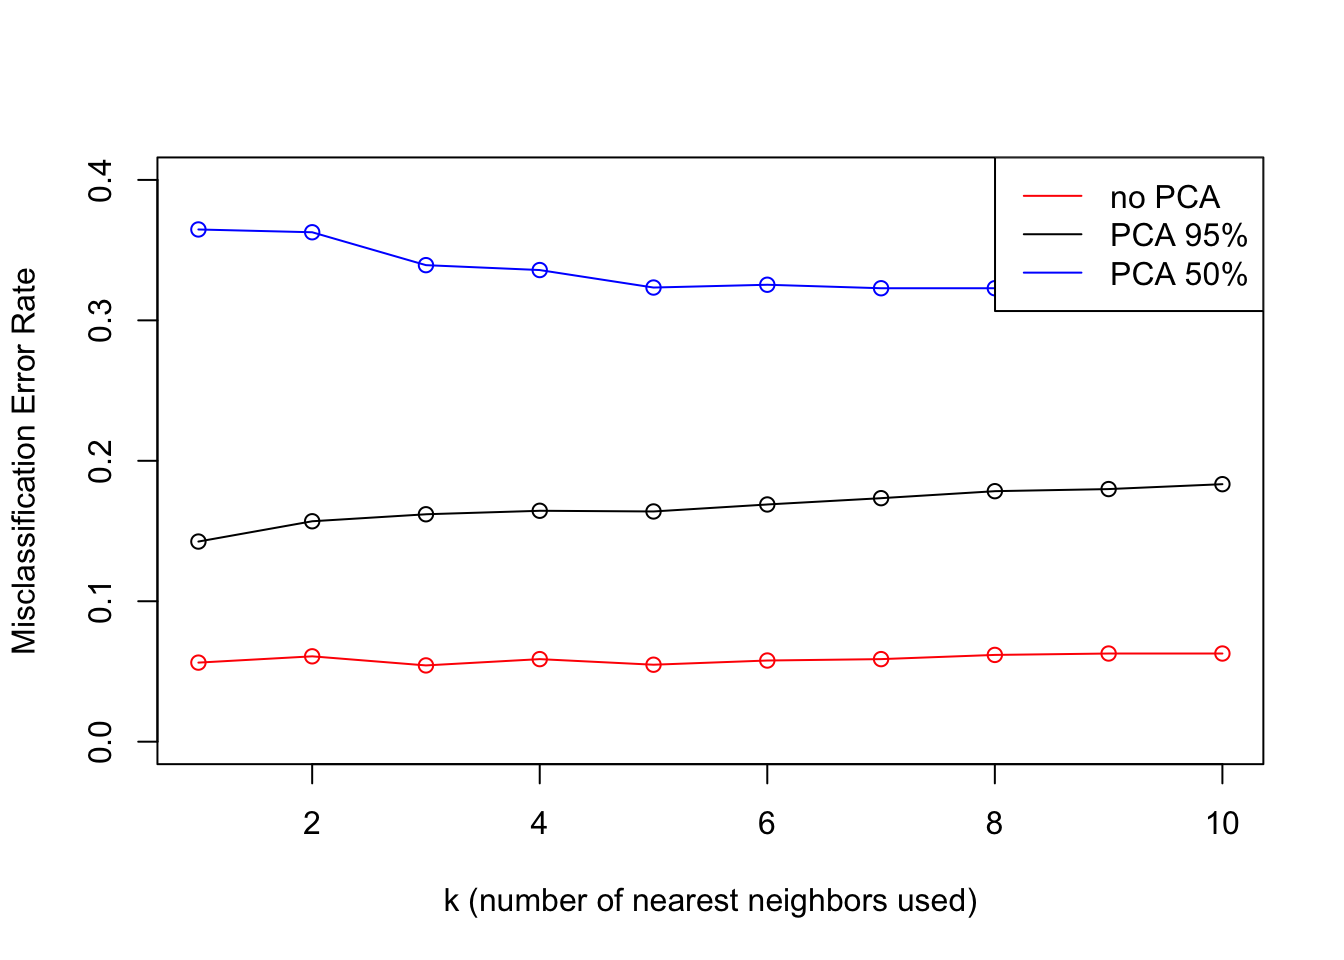
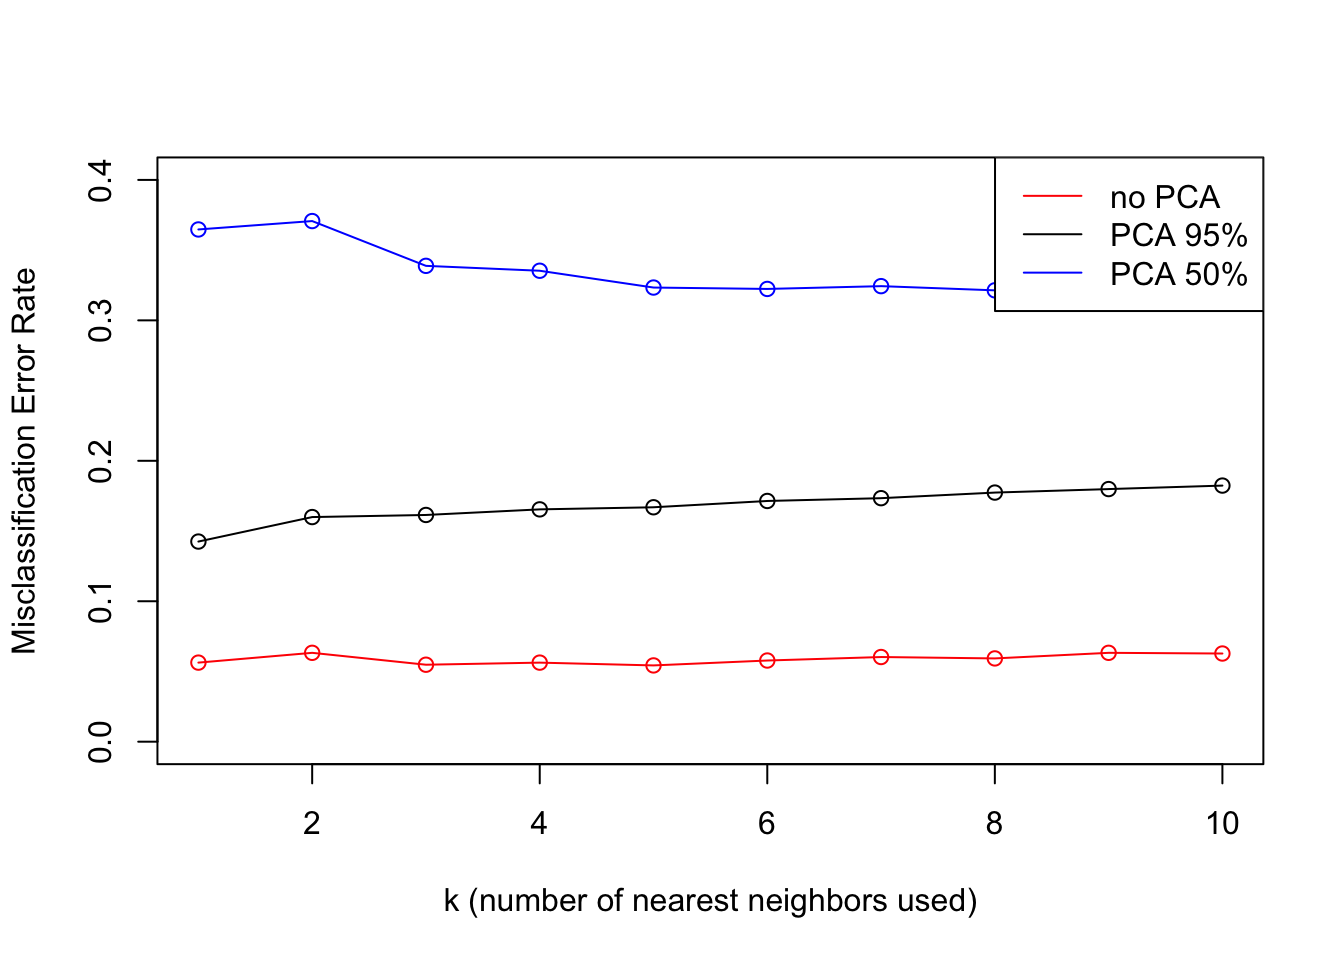
update

diff --git a/stat-learning-machine-learning-R/02-Dimension-Reduction-PCA.md b/stat-learning-machine-learning-R/02-Dimension-Reduction-PCA.md
@@ -406,15 +406,15 @@ cbind(errorRate_nopca, errorRate_pca95, errorRate_pca50)
 
     ##       errorRate_nopca errorRate_pca95 errorRate_pca50
     ##  [1,]      0.05630294       0.1425012       0.3647235
-    ##  [2,]      0.06078724       0.1569507       0.3627304
-    ##  [3,]      0.05430992       0.1619332       0.3393124
-    ##  [4,]      0.05879422       0.1644245       0.3358246
-    ##  [5,]      0.05480817       0.1639263       0.3233682
-    ##  [6,]      0.05779771       0.1689088       0.3253612
-    ##  [7,]      0.05879422       0.1733931       0.3228700
-    ##  [8,]      0.06178376       0.1783757       0.3228700
-    ##  [9,]      0.06278027       0.1798705       0.3228700
-    ## [10,]      0.06278027       0.1833582       0.3203787
+    ##  [2,]      0.06327853       0.1599402       0.3707025
+    ##  [3,]      0.05480817       0.1614350       0.3388142
+    ##  [4,]      0.05630294       0.1654210       0.3353264
+    ##  [5,]      0.05430992       0.1669158       0.3233682
+    ##  [6,]      0.05779771       0.1714001       0.3223717
+    ##  [7,]      0.06028899       0.1733931       0.3243647
+    ##  [8,]      0.05929248       0.1773792       0.3213752
+    ##  [9,]      0.06327853       0.1798705       0.3238665
+    ## [10,]      0.06278027       0.1823617       0.3193822
 
 ``` r
 # plot error rates vs k
@@ -449,10 +449,10 @@ microbenchmark(knn(usps_train, usps_test, usps_train_labels, 10),
     ##                            knn(usps_train, usps_test, usps_train_labels, 10)
     ##  knn(usps_train_pca$x[, 1:107], usps_test_pca95, usps_train_labels,      10)
     ##    knn(usps_train_pca$x[, 1:9], usps_test_pca50, usps_train_labels,      10)
-    ##        min        lq      mean    median        uq       max neval cld
-    ##  5150.0244 5305.1943 6219.7525 6114.7393 6747.2504 13276.030   100   c
-    ##  1318.2608 1356.5634 1518.4287 1431.6080 1521.1242  5827.228   100  b 
-    ##   103.3932  110.2016  114.8994  113.2257  118.0443   135.182   100 a
+    ##       min        lq      mean    median        uq       max neval cld
+    ##  6144.172 7466.5125 7882.0598 7863.2219 8301.5084 9242.8213   100   c
+    ##  1458.156 1643.0997 1848.7398 1738.0517 1896.6294 4613.3688   100  b 
+    ##   107.694  119.3231  126.6915  125.4803  132.9462  163.4824   100 a
 
 # PCA as Pre-Processing for Nearest-Local-Centroid Machine Learning: USPS digits
 
@@ -468,8 +468,8 @@ gc()
 ```
 
     ##           used  (Mb) gc trigger  (Mb)  max used   (Mb)
-    ## Ncells 2678454 143.1    5039558 269.2   3528812  188.5
-    ## Vcells 4529479  34.6  116728904 890.6 145851218 1112.8
+    ## Ncells 2678365 143.1    5039330 269.2   3528772  188.5
+    ## Vcells 4529261  34.6  116730145 890.6 145912681 1113.3
 
 ``` r
 library(tidyverse)
@@ -539,8 +539,8 @@ for(i in 1:nrow(usps_test)){
 proc.time() - ptm # ~3.5 minutes
 ```
 
-    ##      user    system   elapsed 
-    ##   425.424    34.644 16665.452
+    ##    user  system elapsed 
+    ## 183.040  18.391 201.070
 
 calculate local centroids and assign test point to nearest local
 centroid
@@ -599,8 +599,8 @@ for(i in 1:nrow(usps_test)){
 }) # end system.time
 ```
 
-    ##      user    system   elapsed 
-    ##  1317.034   501.233 17991.214
+    ##     user   system  elapsed 
+    ## 1210.773  448.191 1665.622
 
 Calculate and plot error rates for the `max_k` k values
 
@@ -701,7 +701,7 @@ for(i in 1:nrow(usps_test)){
 ```
 
     ##     user   system  elapsed 
-    ##  810.109  319.718 1132.302
+    ##  795.029  294.031 1092.600
 
 plot nopca vs pca95 vs pca50
 
@@ -813,7 +813,7 @@ for(i in 1:nrow(usps_test)){
 ```
 
     ##    user  system elapsed 
-    ## 114.876  27.512 143.750
+    ## 113.722  25.713 140.395
 
 plot pca50
 
